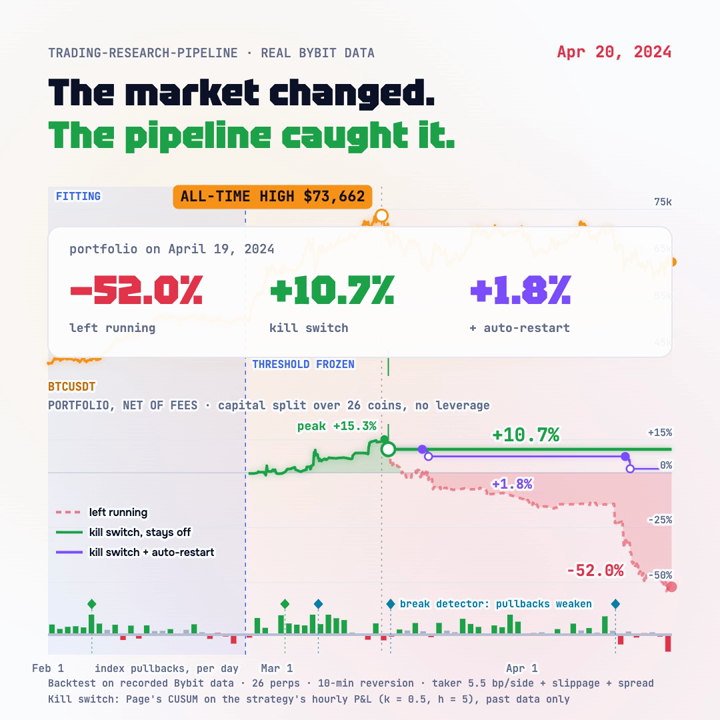
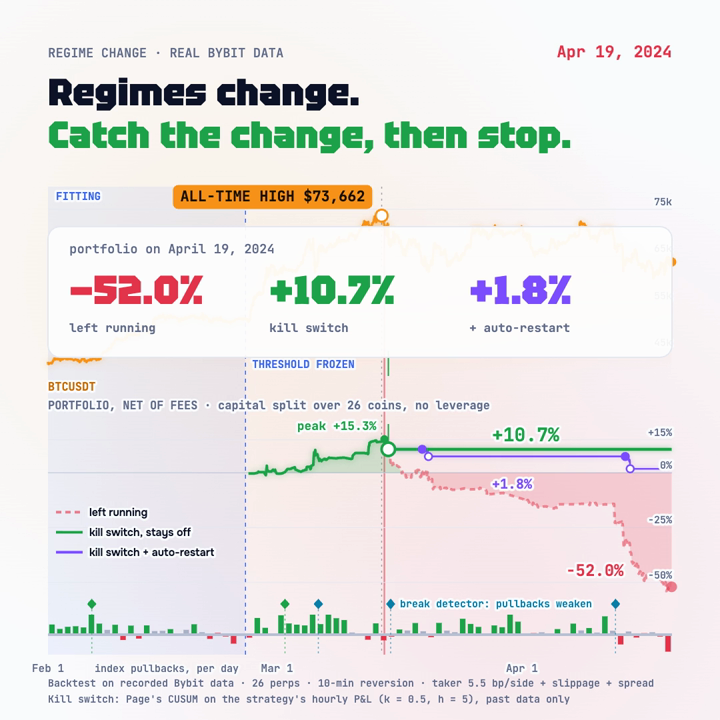
Posts: the btc_ath_2024 animation tells the regime change in scenes, each headline up for at least 2.5 s, and holds the market clock still at the change point, the kill switch and the break detector's alarm, with a ring on each; it is about the phenomenon, so its header names a regime change rather 

diff --git a/posts/btc_ath_2024/animation.html b/posts/btc_ath_2024/animation.html
@@ -69,16 +69,30 @@ const DET = window.POST.breaks.alarms.map(a => ({ t: Date.parse(a.at + "Z"), dir
 const DET_T = DET.filter(a => a.dir > 0 && a.t > STOP_T - 864e5)[0].t;
 const RESTART2_T = Date.parse(MONI.shadow_events.filter(e => e.event === "restart").slice(-1)[0].at + "Z");
 
-// time warp: the story slows around the top and the fall
-const warp = t => 1 + 2.6 * Math.exp(-(((t - ATH_T) / 864e5 - 0.8) ** 2) / 3.2);
-const steps = btc.map(r => r[0]);
-const W = [0]; for (let i = 1; i < steps.length; i++) W.push(W[i - 1] + warp(steps[i]));
-const timeAt = p => {
-  const target = p * W[W.length - 1];
-  let lo = 0, hi = W.length - 1;
-  while (hi - lo > 1) { const m = (lo + hi) >> 1; W[m] <= target ? lo = m : hi = m; }
-  const f = (target - W[lo]) / Math.max(1e-9, W[hi] - W[lo]);
-  return steps[lo] + f * (steps[hi] - steps[lo]);
+const PEAK_T = eq[PEAK_I][0], T_END = eq[eq.length - 1][0];
+// The story in scenes. A scene runs the market clock to `to` in `ms`; a scene whose
+// `to` equals the last one's holds the clock still, so a moment can be looked at.
+// Every headline stays up at least 2.5 s.
+const SCENES = [
+  { to: FIT_END, ms: 3200, head: [["Every strategy is fitted", "fg"], ["to one market regime", "train"]] },
+  { to: ATH_T - 6 * 36e5, ms: 3600, head: [["Fitted on February 2024,", "fg"], ["this one prints money", "win"]] },
+  { to: PEAK_T, ms: 2800, head: [["March 14: bitcoin hits", "fg"], ["an all-time high", "btcText"]] },
+  { to: PEAK_T, ms: 3200, mark: "change", head: [["Right here the regime changes.", "fg"], ["Nothing in the code did.", "loss"]] },
+  { to: STOP_T, ms: 2600, head: [["The same strategy", "fg"], ["starts losing money", "loss"]] },
+  { to: STOP_T, ms: 3200, mark: "stop", head: [["A monitor on its own P&L", "fg"], [`fires ${STOP.hours_after_peak} hours later: stop`, "win"]] },
+  { to: DET_T, ms: 1400, head: [["A monitor on its own P&L", "fg"], [`fires ${STOP.hours_after_peak} hours later: stop`, "win"]] },
+  { to: DET_T, ms: 3200, mark: "detector", head: [["A break detector on the market", "fg"], ["shows why: no more pullbacks", "det"]] },
+  { to: RESTART2_T, ms: 4200, head: [["Left running,", "fg"], ["it keeps bleeding", "loss"]] },
+  { to: T_END, ms: 3000, head: [["Restarting on a bounce", "fg"], ["gives most of it back", "auto"]] },
+];
+const FINAL_HEAD = [["Regimes change.", "fg"], ["Catch the change, then stop.", "win"]];
+let acc = 0, from = T0;
+SCENES.forEach(sc => { sc.from = from; sc.start = acc; acc += sc.ms; from = sc.to; });
+const ease = f => f < .5 ? 4 * f * f * f : 1 - (-2 * f + 2) ** 3 / 2;
+const timeAt = el => {
+  const sc = SCENES.find(c => el < c.start + c.ms) || SCENES[SCENES.length - 1];
+  const f = clamp01((el - sc.start) / sc.ms);
+  return { t: sc.from + (sc.to - sc.from) * ease(f), scene: sc, into: el - sc.start };
 };
 
 const L = 72, R = S - 72;
@@ -108,23 +122,23 @@ function lab(s, x, y, font, color, align = "left", alpha = 1) {
 }
 function roundRect(x, y, w, h, r) { ctx.beginPath(); ctx.moveTo(x + r, y); ctx.arcTo(x + w, y, x + w, y + h, r); ctx.arcTo(x + w, y + h, x, y + h, r); ctx.arcTo(x, y + h, x, y, r); ctx.arcTo(x, y, x + w, y, r); ctx.closePath(); }
 
-function headline(t, done) {
-  if (done) return [["The market changed.", COL.fg], ["The pipeline caught it.", COL.win]];
-  if (t < FIT_END) return [["Fitting the strategy", COL.fg], ["on February 2024", COL.train]];
-  if (t < ATH_T - 12 * 36e5) return [["Frozen.", COL.fg], ["The strategy prints.", COL.win]];
-  if (t < ATH_T + 8 * 36e5) return [["March 14: bitcoin hits", COL.fg], ["an all-time high", COL.btcText]];
-  if (t < STOP_T) return [["The strategy peaks.", COL.fg], ["Then it starts to lose.", COL.loss]];
-  if (t < DET_T) return [[`${STOP.hours_after_peak} hours later, a monitor`, COL.fg], ["pulls the kill switch", COL.win]];
-  if (t < DET_T + 60 * 36e5) return [["The break detector says why:", COL.fg], ["the market stopped pulling back", COL.det]];
-  if (t < RESTART2_T) return [["Left running,", COL.fg], ["the strategy keeps bleeding", COL.loss]];
-  return [["Restarting on a bounce", COL.fg], ["gives most of it back", COL.auto]];
-}
 
-const PLAY = reduce ? 1 : 15000, HOLD = 5000;
+const PLAY = SCENES.reduce((a, c) => a + c.ms, 0), HOLD = 5500;
+let MARK = "", INTO = 0, EL = 0;
+// a ring that breathes while a moment is held
+function pulse(x, y, color, reach = 46) {
+  for (let k = 0; k < 3; k++) {
+    const r = 12 + ((EL * 0.03 + k * reach / 3) % reach);
+    ctx.strokeStyle = color; ctx.globalAlpha = clamp01(1 - (r - 12) / reach) * .9; ctx.lineWidth = 3;
+    ctx.beginPath(); ctx.arc(x, y, r, 0, 7); ctx.stroke();
+  }
+  ctx.globalAlpha = 1;
+}
 let lastHead = "", headSinceEl = 0;
 
 function draw(el) {
-  const p = clamp01(el / PLAY), done = el >= PLAY, t = timeAt(p);
+  const done = el >= PLAY || reduce, cur = timeAt(Math.min(el, PLAY - 1)), t = done ? T_END : cur.t;
+  MARK = done ? "" : cur.scene.mark || ""; INTO = cur.into; EL = el;
   const w = cv.clientWidth, dpr = RENDER ? 1 : Math.min(devicePixelRatio || 1, 2);
   if (cv.width !== Math.round(w * dpr)) { cv.width = Math.round(w * dpr); cv.height = Math.round(w * dpr); }
   ctx.setTransform(cv.width / S, 0, 0, cv.height / S, 0, 0);
@@ -135,9 +149,9 @@ function draw(el) {
   if (tint > 0) { const g = ctx.createRadialGradient(S * .7, S * .8, 40, S * .7, S * .8, 700); g.addColorStop(0, `rgba(227,52,75,${.10 * tint})`); g.addColorStop(1, "rgba(227,52,75,0)"); ctx.fillStyle = g; ctx.fillRect(0, 0, S, S); }
   const g2 = ctx.createRadialGradient(S * .3, S * .38, 30, S * .3, S * .38, 620); g2.addColorStop(0, "rgba(247,147,26,.09)"); g2.addColorStop(1, "rgba(247,147,26,0)"); ctx.fillStyle = g2; ctx.fillRect(0, 0, S, S);
 
-  txt("TRADING-RESEARCH-PIPELINE · REAL BYBIT DATA", L, 86, `500 19px ${F.mono}`, COL.muted);
+  txt("REGIME CHANGE · REAL BYBIT DATA", L, 86, `500 19px ${F.mono}`, COL.muted);
   txt(dlab(t), R, 86, `700 24px ${F.mono}`, after ? COL.loss : COL.fg, "right");
-  const head = headline(t, done), key = head[0][0] + head[1][0];
+  const head = (done ? FINAL_HEAD : cur.scene.head).map(([s, c]) => [s, COL[c]]), key = head[0][0] + head[1][0];
   if (key !== lastHead) { lastHead = key; headSinceEl = el; }
   const ha = reduce || paused ? 1 : clamp01((el - headSinceEl) / 350);
   const hy = 158 + (1 - ha) * 14;
@@ -179,11 +193,17 @@ function draw(el) {
     ctx.beginPath(); ctx.moveTo(xa, P.top - 20); ctx.lineTo(xa, A.mid + A.h); ctx.stroke(); ctx.setLineDash([]); ctx.globalAlpha = 1;
     if (!reduce && since < 40) {
       for (let k = 0; k < 3; k++) {
-        const r = (since * 6 + k * 40) % 160;
+        const r = (EL * 0.07 + k * 40) % 160;
         ctx.strokeStyle = COL.btc; ctx.globalAlpha = clamp01(1 - r / 160) * .9; ctx.lineWidth = 3;
         ctx.beginPath(); ctx.arc(xa, ya, r, 0, 7); ctx.stroke();
       }
       ctx.globalAlpha = 1;
+    }
+    if (t >= PEAK_T) {
+      const xc = X(PEAK_T);
+      ctx.strokeStyle = COL.loss; ctx.globalAlpha = .55; ctx.lineWidth = 2.5;
+      ctx.beginPath(); ctx.moveTo(xc, P.top + 40); ctx.lineTo(xc, A.mid + A.h); ctx.stroke(); ctx.globalAlpha = 1;
+      if (EL < PLAY) lab("REGIME CHANGE", xc - 12, P.bot - 40, `700 17px ${F.mono}`, COL.loss, "right");
     }
     ctx.fillStyle = "#fff"; ctx.beginPath(); ctx.arc(xa, ya, 9, 0, 7); ctx.fill();
     ctx.strokeStyle = COL.btc; ctx.lineWidth = 3; ctx.stroke();
@@ -192,7 +212,7 @@ function draw(el) {
     const bx = xa - tw - 14, by = ya - 46;
     ctx.fillStyle = COL.btc; roundRect(bx, by, tw, 36, 8); ctx.fill();
     txt(badge, bx + 11, by + 25, `700 22px ${F.mono}`, "#1a0f00");
-    if (!reduce && since < 10) { ctx.fillStyle = `rgba(255,214,150,${.28 * (1 - since / 10)})`; ctx.fillRect(0, 0, S, S); }
+    if (!reduce && since < 6) { ctx.fillStyle = `rgba(255,214,150,${.28 * (1 - since / 10)})`; ctx.fillRect(0, 0, S, S); }
   }
 
   ctx.strokeStyle = COL.grid; ctx.lineWidth = 1;
@@ -224,6 +244,7 @@ function draw(el) {
     if (stopped) { if (t > STOP_T + 30 * 36e5) lab(pct(last[1]), X(last[0]) + (nearEdge ? -72 : 18), Ye(last[1]) + (last[1] < -35 ? -16 : 34), `700 24px ${F.mono}`, c, nearEdge ? "right" : "left"); }
     else lab(pct(last[1]), X(last[0]) + (nearEdge ? -90 : 18), Ye(last[1]) + 11, `700 30px ${F.mono}`, c, nearEdge ? "right" : "left");
     if (stopped) policies(t, el);
+    if (MARK === "change") pulse(X(PEAK_T), Ye(eq[PEAK_I][1]), COL.loss);
     if (t > eq[PEAK_I][0] + 6 * 36e5) {
       const xp = X(eq[PEAK_I][0]), yp = Ye(eq[PEAK_I][1]);
       ctx.fillStyle = COL.win; ctx.beginPath(); ctx.arc(xp, yp, 6, 0, 7); ctx.fill();
@@ -263,6 +284,7 @@ function detectorPins(t) {
     ctx.beginPath(); ctx.moveTo(x, y + 8); ctx.lineTo(x, A.mid + A.h); ctx.stroke(); ctx.restore();
     ctx.fillStyle = c; ctx.beginPath(); ctx.moveTo(x, y - 8); ctx.lineTo(x + 7, y); ctx.lineTo(x, y + 8); ctx.lineTo(x - 7, y); ctx.closePath(); ctx.fill();
   });
+  if (MARK === "detector") pulse(X(DET_T), y, COL.det);
   if (t >= DET_T) lab("break detector: pullbacks weaken", X(DET_T) + 14, y + 5, `700 15px ${F.mono}`, COL.det);
   if (t < DET_T && DET.some(a => a.t <= t)) {
     const lx = R - 330;
@@ -308,9 +330,9 @@ function policies(t, el) {
   const bx = Math.min(xs + 12, R - tw), by = P.bot - 70;
   ctx.fillStyle = COL.win; roundRect(bx, by, tw, 34, 8); ctx.fill();
   txt(badge, bx + 11, by + 23, `700 20px ${F.mono}`, "#fff");
-  if (!reduce && since < 8) {
-    for (let k = 0; k < 3; k++) { const r = (since * 9 + k * 30) % 110; ctx.strokeStyle = COL.win; ctx.globalAlpha = clamp01(1 - r / 110); ctx.lineWidth = 3; ctx.beginPath(); ctx.arc(xs, ys, r, 0, 7); ctx.stroke(); }
-    ctx.globalAlpha = 1; ctx.fillStyle = `rgba(190,245,205,${.30 * (1 - since / 8)})`; ctx.fillRect(0, 0, S, S);
+  if (!reduce && MARK === "stop") {
+    pulse(xs, ys, COL.win);
+    if (INTO < 700) { ctx.fillStyle = `rgba(190,245,205,${.30 * (1 - INTO / 700)})`; ctx.fillRect(0, 0, S, S); }
   }
 }
 
